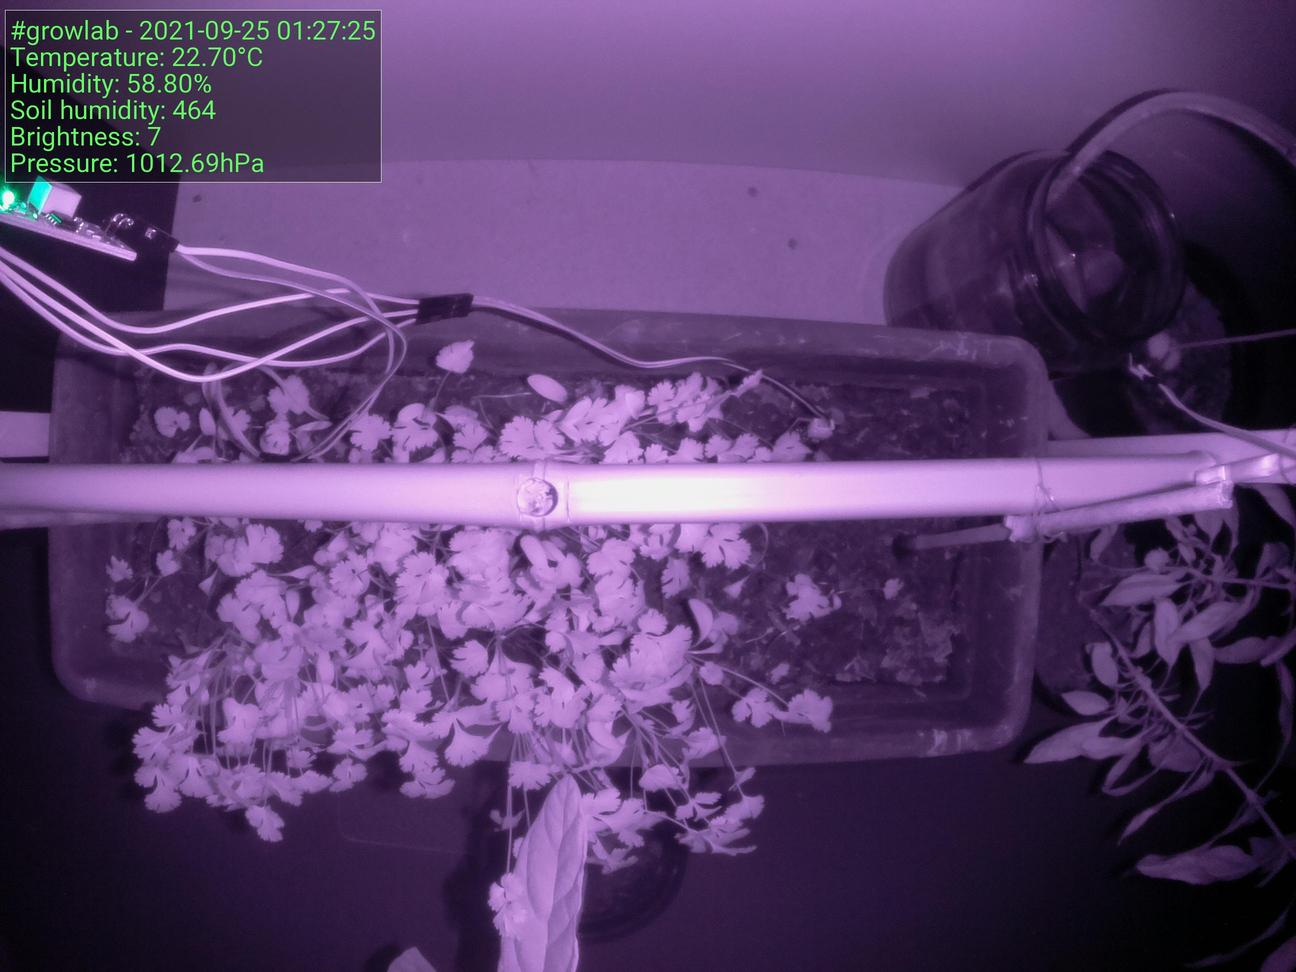
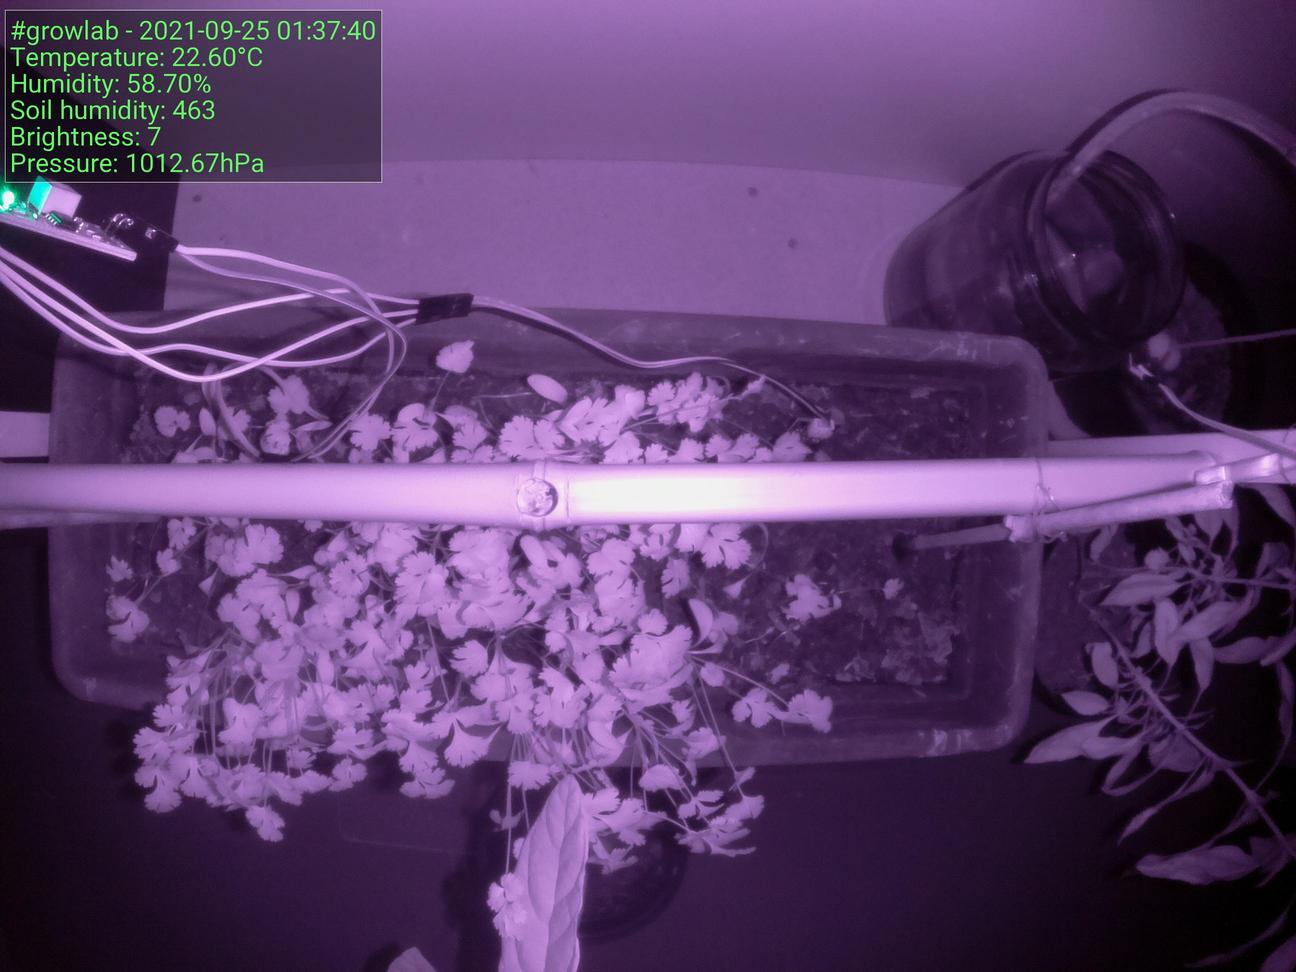
:bento: Update preview

diff --git a/index.html b/index.html
@@ -39,15 +39,15 @@
                     <tbody>
                         <tr>
                             <td>Time</td>
-                            <td>2021-09-25 01:27:25</td>
+                            <td>2021-09-25 01:37:40</td>
                         </tr>
                         <tr>
                             <td>Temperature</td>
-                            <td>22.70°C</td>
+                            <td>22.60°C</td>
                         </tr>
                         <tr>
                             <td>Humidity</td>
-                            <td>58.80%</td>
+                            <td>58.70%</td>
                         </tr>
                     </tbody>
                 </table>
@@ -55,7 +55,7 @@
 
                 <h5>Latest image</h5>
 		<div style="width: 85%;">
-	                <img class="figure-img img-fluid rounded" src="./preview.jpg?uid=1632526053.357151">
+	                <img class="figure-img img-fluid rounded" src="./preview.jpg?uid=1632526667.6871204">
 		</div>
             </div>
         </div>
